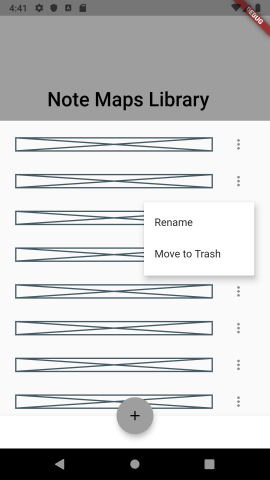
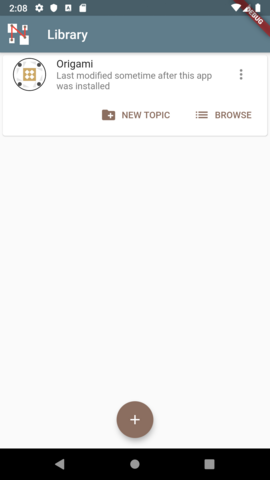
Update screenshots

diff --git a/README.md b/README.md
@@ -37,7 +37,7 @@ database on local storage, where they can be included in system backups.
 
 ## Screenshots
 
-![screenshot of library page](https://github.com/google/note-maps/raw/master/docs/library.png) ![screenshot of topic page](https://github.com/google/note-maps/raw/master/docs/topic.png) ![screenshot of topic rename dialog](https://github.com/google/note-maps/raw/master/docs/topic-rename.png) ![screenshot of topic edit note dialog](https://github.com/google/note-maps/raw/master/docs/topic-edit-note.png) ![screenshot of topic role menu](https://github.com/google/note-maps/raw/master/docs/topic-role-menu.png)
+![screenshot of library page](https://github.com/google/note-maps/raw/master/docs/library.png) ![screenshot of topic page with speed-dial actinos](https://github.com/google/note-maps/raw/master/docs/fab.png) ![screenshot of topic editing page](https://github.com/google/note-maps/raw/master/docs/topic-edit.png) ![screenshot of browsing page](https://github.com/google/note-maps/raw/master/docs/browse.png)
 
 ## Plan
 
